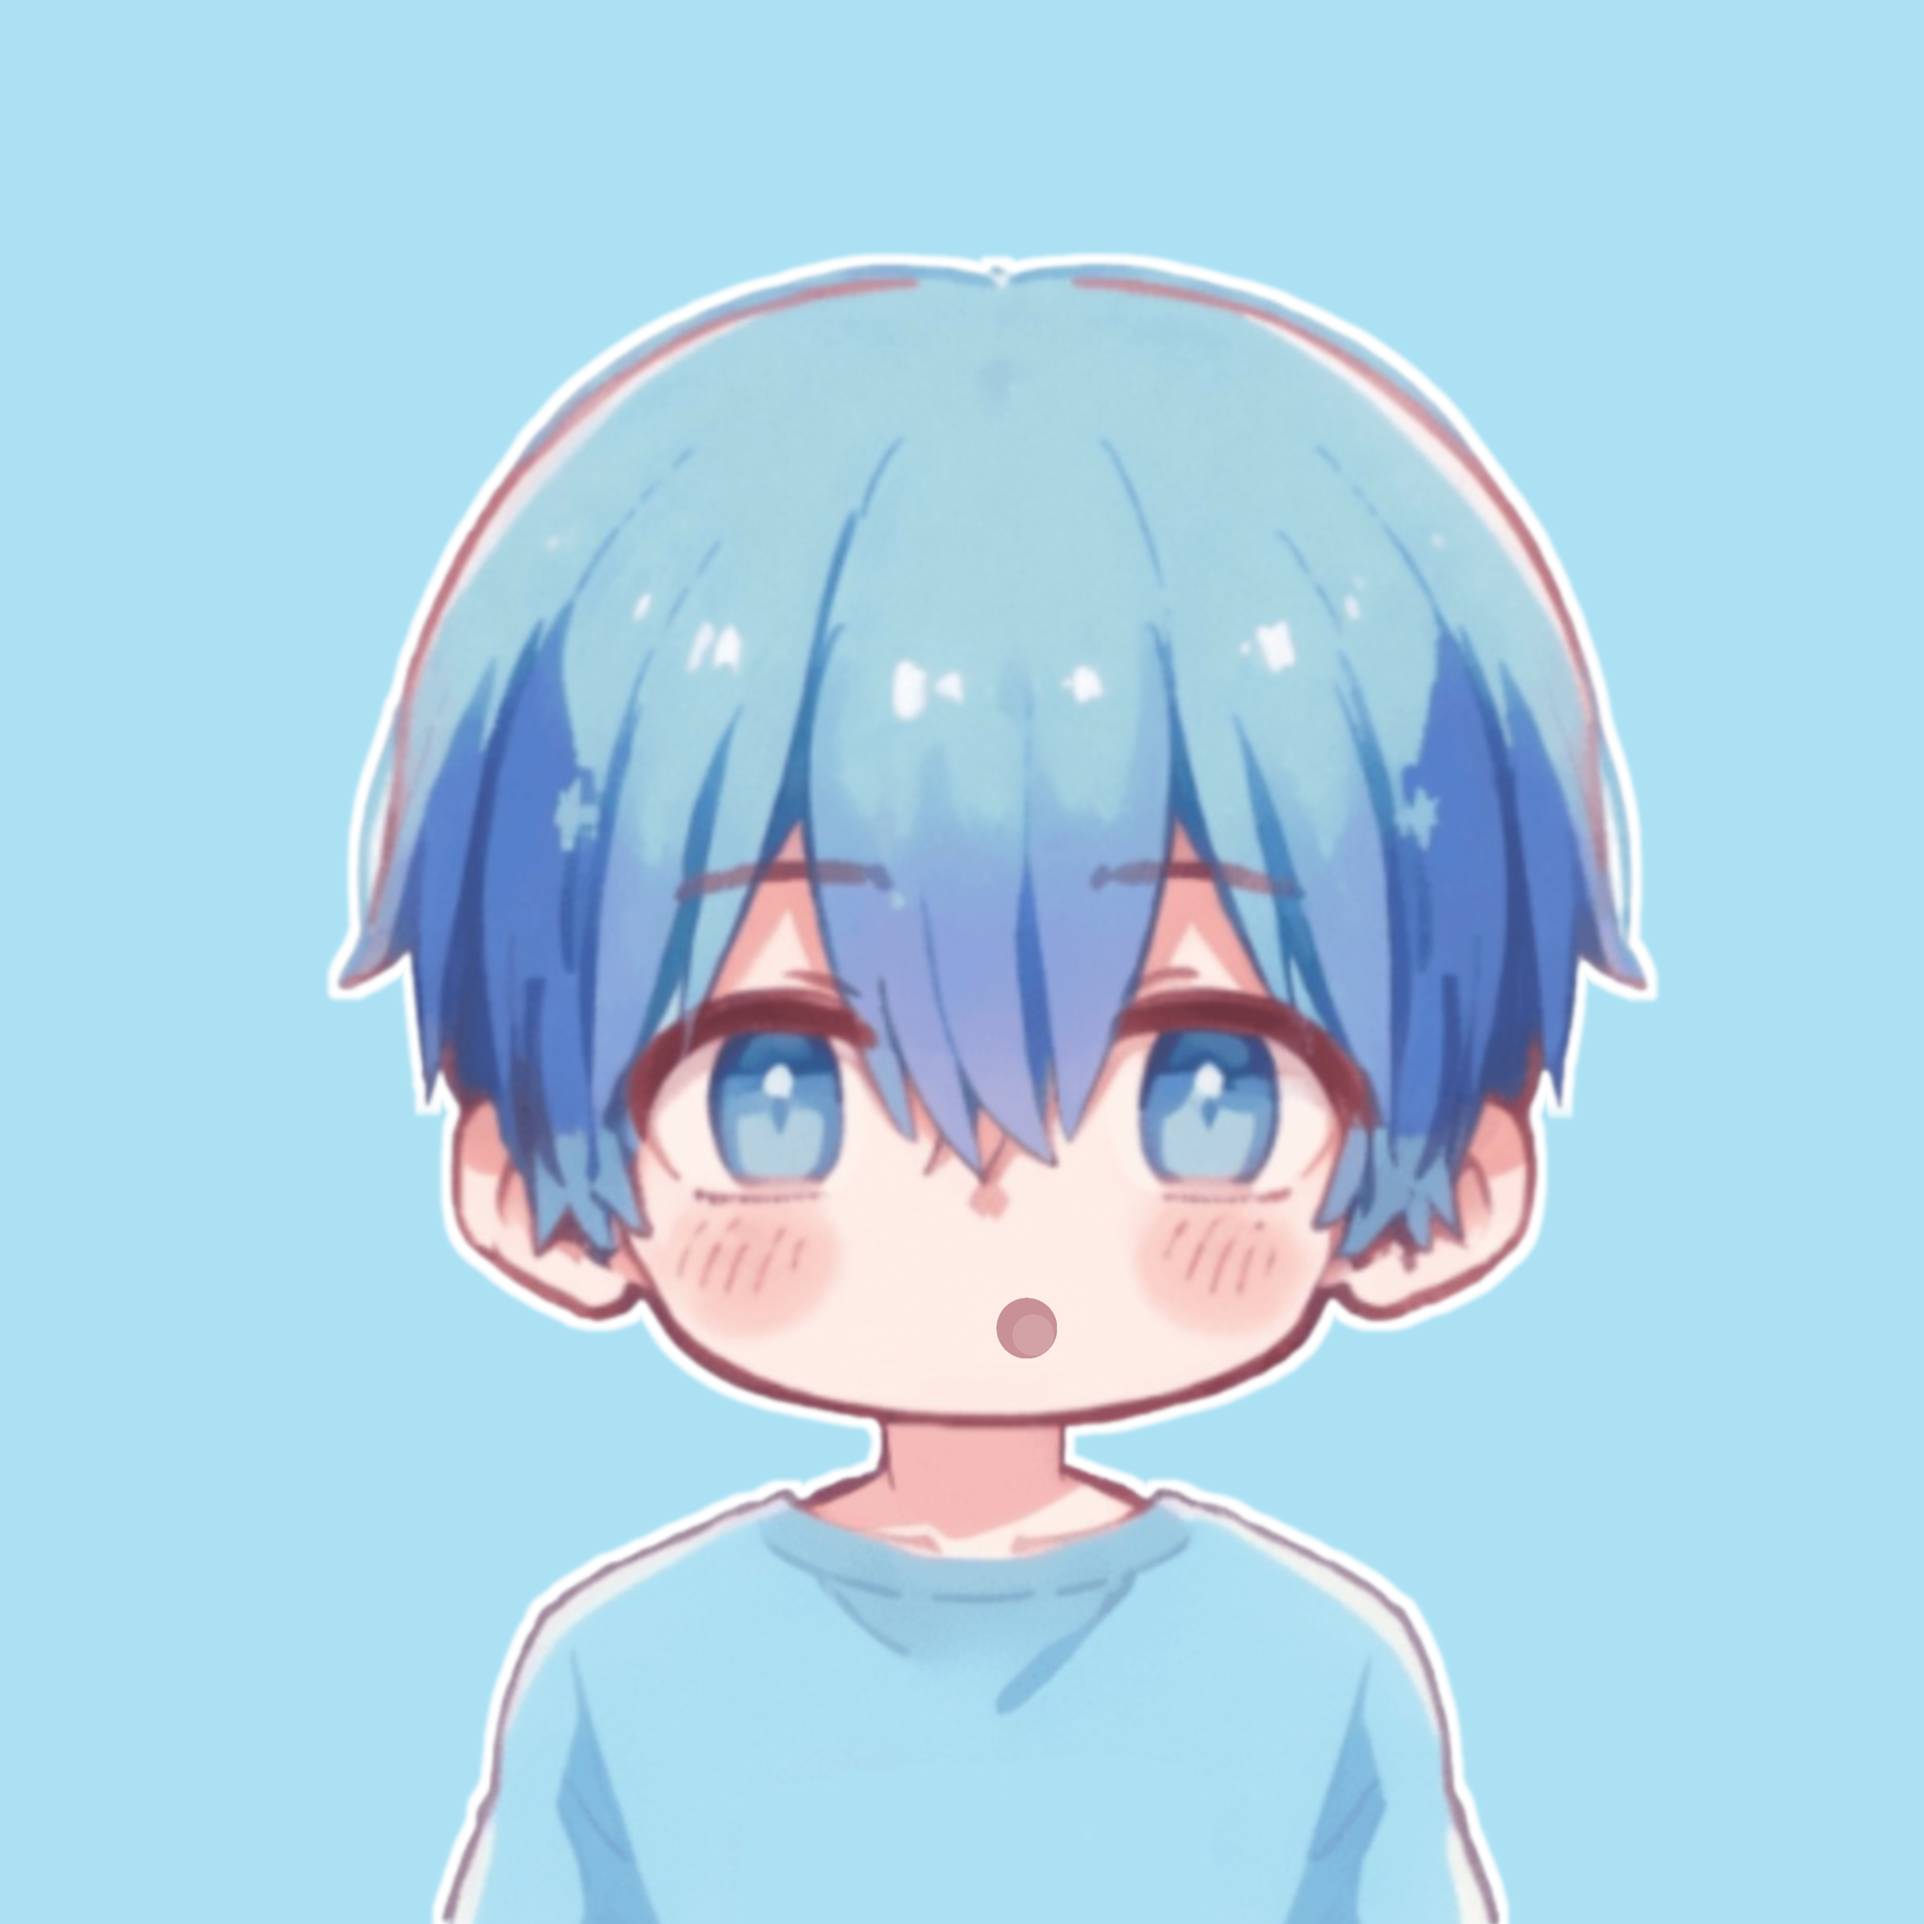
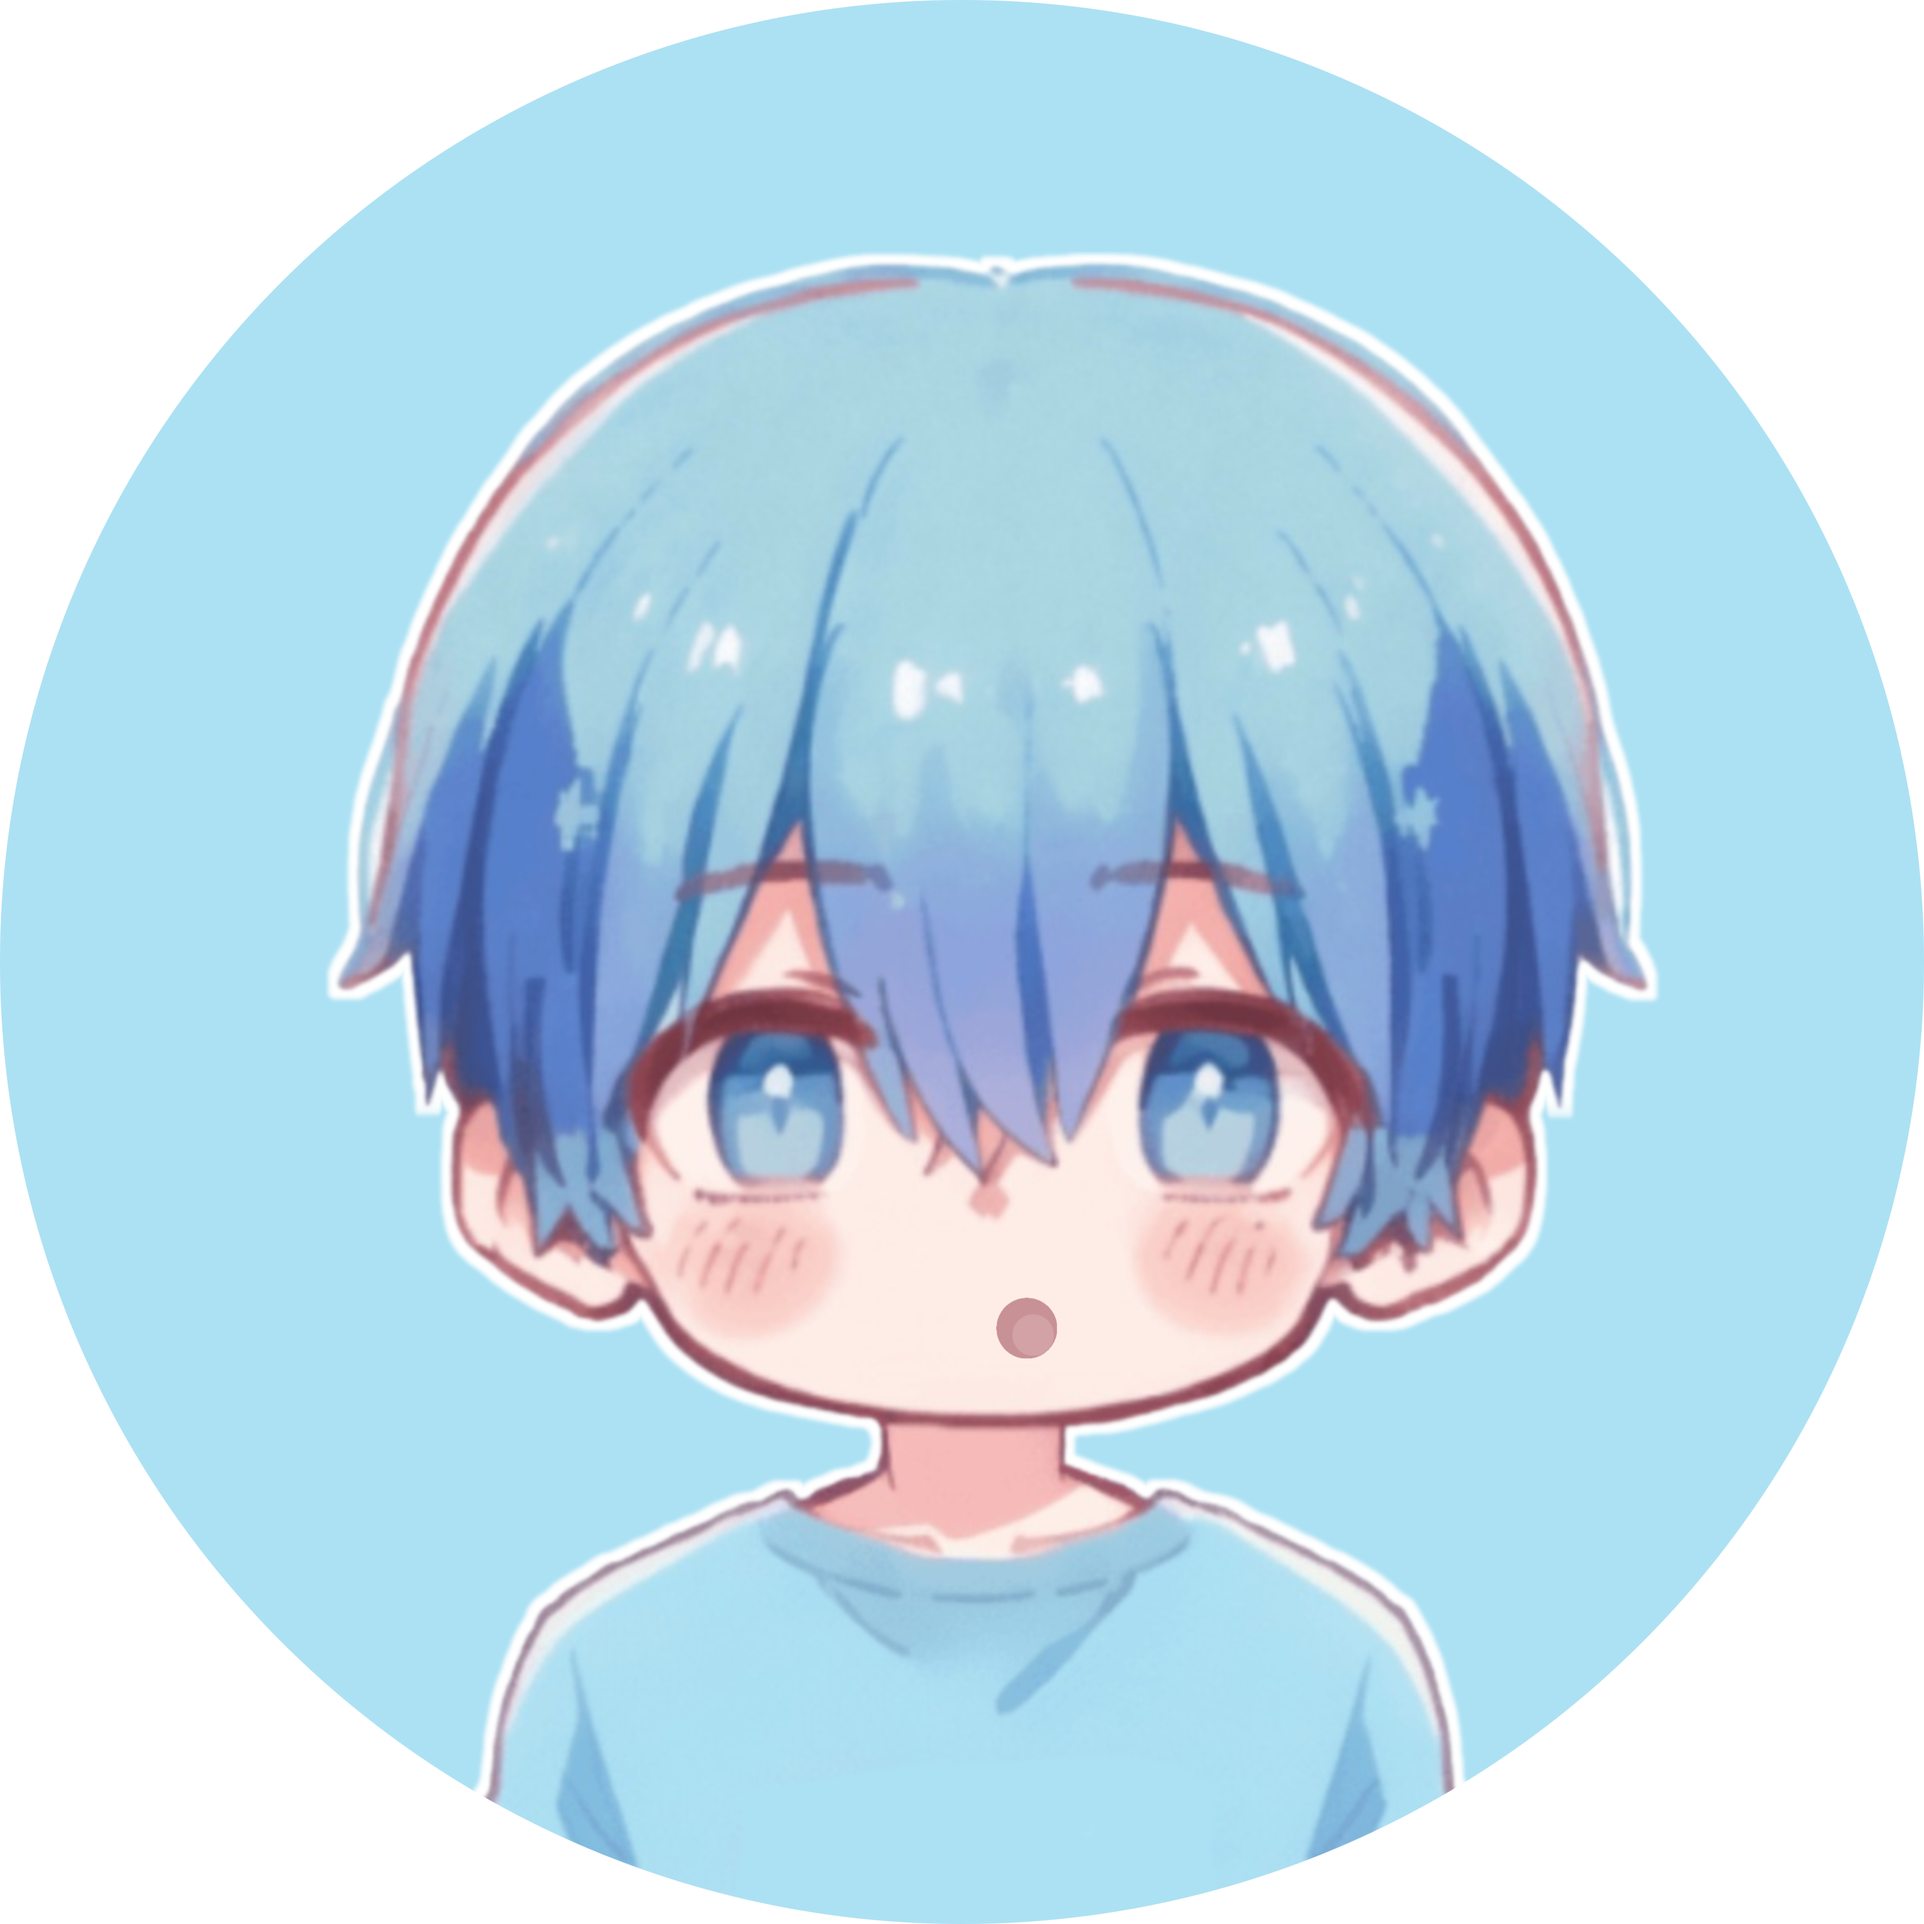
update gambar

diff --git a/index.html b/index.html
@@ -17,7 +17,7 @@
     <!-- Header -->
     <header class="main-header p-[12px] bg-cyan-100">
         <!-- Logo -->
-        <div class="main-logo"></div>
+        <img class="main-logo" src="./assets/foto.png" alt="profile">
 
         <!-- Navigation -->
         <nav>
@@ -40,7 +40,7 @@
             </header>
 
             <!-- Banner -->
-            <div class="banner-logo"></div>
+            <img class="banner-logo" src="./assets/foto.png" alt="profile">
         </section>
 
         <!-- About Section -->
@@ -56,7 +56,7 @@
   <div class="grid grid-cols-1 md:grid-cols-2 lg:grid-cols-3 gap-4">
     <!-- Item Album 1 -->
     <div class="rounded-lg overflow-hidden shadow-md">
-      <img src="/assets/shot.jpg" alt="Gambar 1" class="w-full h-48 object-cover">
+      <img src="./assets/shot.jpg" alt="Gambar 1" class="w-full h-48 object-cover">
       <div class="p-4">
         <h2 class="text-xl font-semibold mb-2">Photography</h2>
         <p class="text-gray-700">Close up</p>
@@ -65,7 +65,7 @@
 
     <!-- Item Album 2 -->
     <div class="rounded-lg overflow-hidden shadow-md">
-      <img src="/assets/video.jpg" alt="Gambar 2" class="w-full h-48 object-cover">
+      <img src="./assets/video.jpg" alt="Gambar 2" class="w-full h-48 object-cover">
       <div class="p-4">
         <h2 class="text-xl font-semibold mb-2">Videography & Editing</h2>
         <p class="text-gray-700">Short Film</p>
@@ -74,7 +74,7 @@
 
     <!-- Item Album 3 -->
     <div class="rounded-lg overflow-hidden shadow-md">
-      <img src="/assets/desain.jpg" alt="Gambar 3" class="w-full h-48 object-cover">
+      <img src="./assets/desain.jpg" alt="Gambar 3" class="w-full h-48 object-cover">
       <div class="p-4">
         <h2 class="text-xl font-semibold mb-2">Design</h2>
         <p class="text-gray-700">Sport Design</p>

diff --git a/css/style.css b/css/style.css
@@ -7,18 +7,12 @@
 .main-logo {
     height: 60px;
     width: 60px;
-    background-image: url(/assets/foto.png);
-    background-size: cover;
-    border-radius: 50%;
     margin-left: 20px;
 }
 
 .banner-logo {
     height: 250px;
     width: 250px;
-    background-image: url(/assets/foto.png);
-    background-size: cover;
-    border-radius: 50%;
     margin-right: auto;
     margin-left: auto;
     position: relative;
